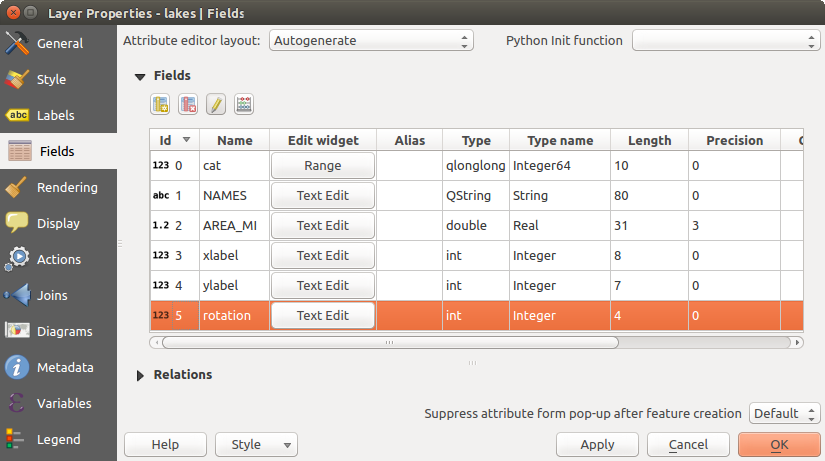
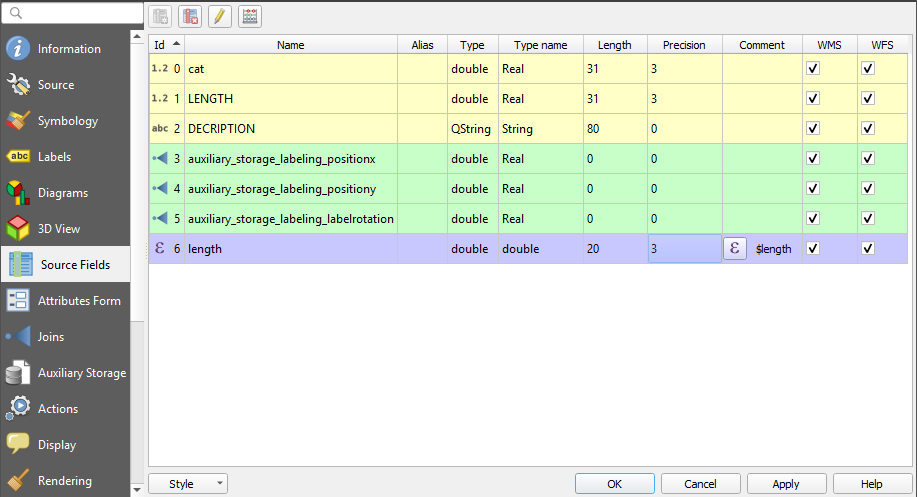
Update vector properties source fields (#3181)
* caption update

* text update

* Delete fields_properties.png

* Add files via upload

figure update

diff --git a/source/docs/user_manual/working_with_vector/vector_properties.rst b/source/docs/user_manual/working_with_vector/vector_properties.rst
@@ -203,7 +203,7 @@ the bottom the :ref:`layer_rendering` widget.
    Using the :menuselection:`Styles --> Add` menu at the bottom of the
    :guilabel:`Layer Properties` dialog, you can save as many styles as needed.
    A style is the combination of all properties of a layer (such as symbology,
-   labeling, diagram, fields form, actions...) as you want. Then, simply 
+   labeling, diagram, fields form, actions...) as you want. Then, simply
    switch between styles from the context menu of the layer in :guilabel:`Layers Panel`
    to automatically get different representations of your data.
 
@@ -2098,10 +2098,10 @@ example at its creation. This information is retrieved and shown in the
 :guilabel:`Comment` column and is later displayed when hovering over the
 field label in a feature form.
 
-Other than the fields contained in the dataset, the :guilabel:`Source Fields`
-tab also lists fields from any :ref:`joined layers <sec_joins>` or :ref:`relations
-<vector_relations>`. And depending on the origin of the field, a different
-background color is applied to it.
+Other than the fields contained in the dataset, virtual fields and
+:ref:`Auxiliary Storage <vector_auxiliary_storage>` included, the
+:guilabel:`Source Fields` tab also lists fields from any :ref:`joined layers <sec_joins>`.
+Depending on the origin of the field, a different background color is applied to it.
 
 For each listed field, the dialog also lists read-only characteristics such as
 its ``type``, ``type name``, ``length`` and ``precision``. When serving the
@@ -2112,7 +2112,7 @@ layer as ``WMS`` or ``WFS``, you can also check here which fields could be retri
 .. figure:: img/fields_properties.png
    :align: center
 
-   Field properties tab
+   Source Field properties tab
 
 
 .. _vector_attributes_menu:
